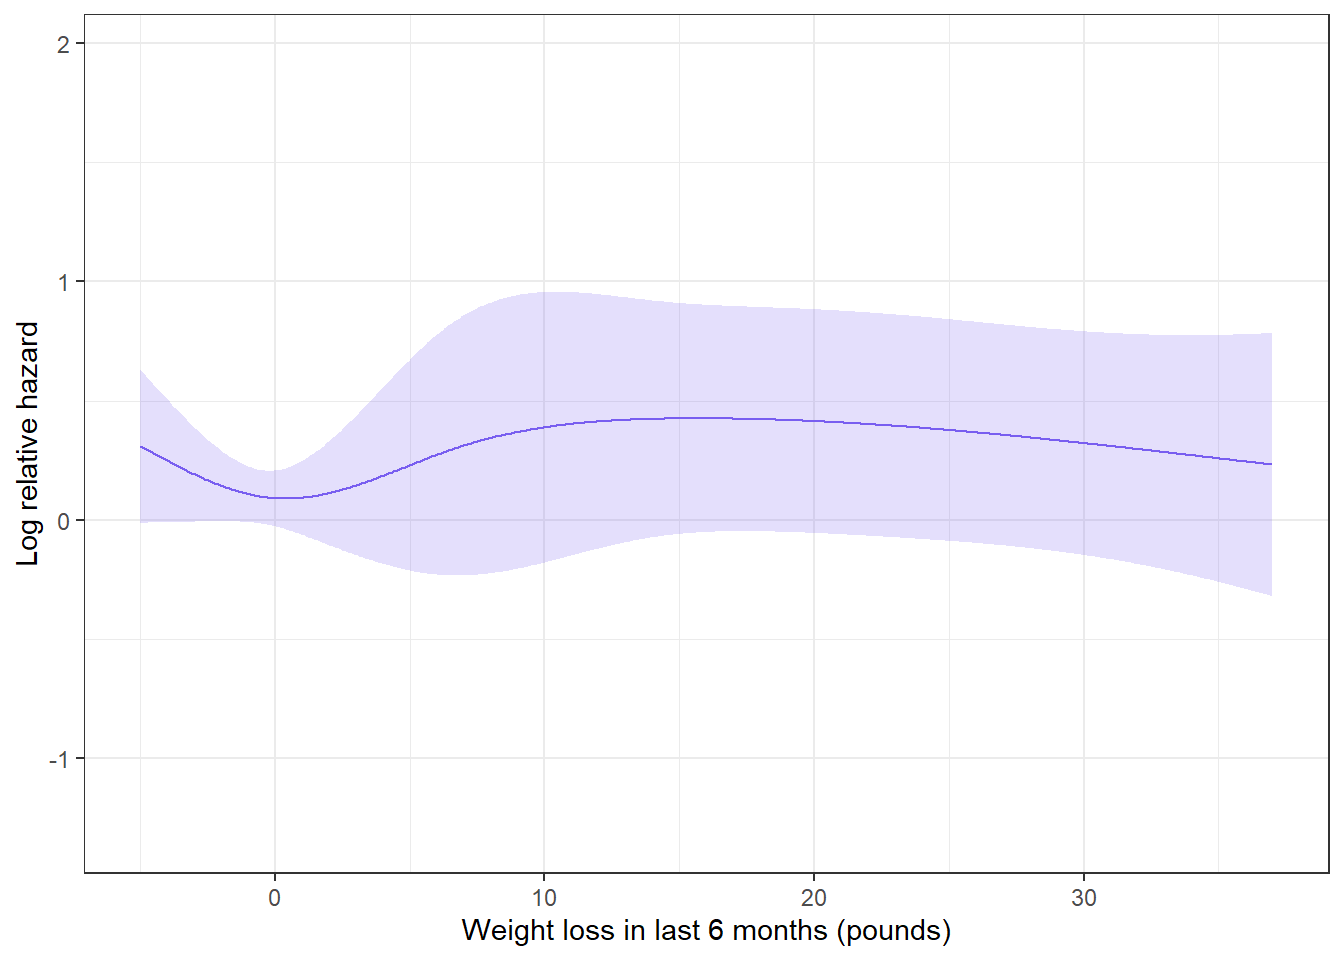
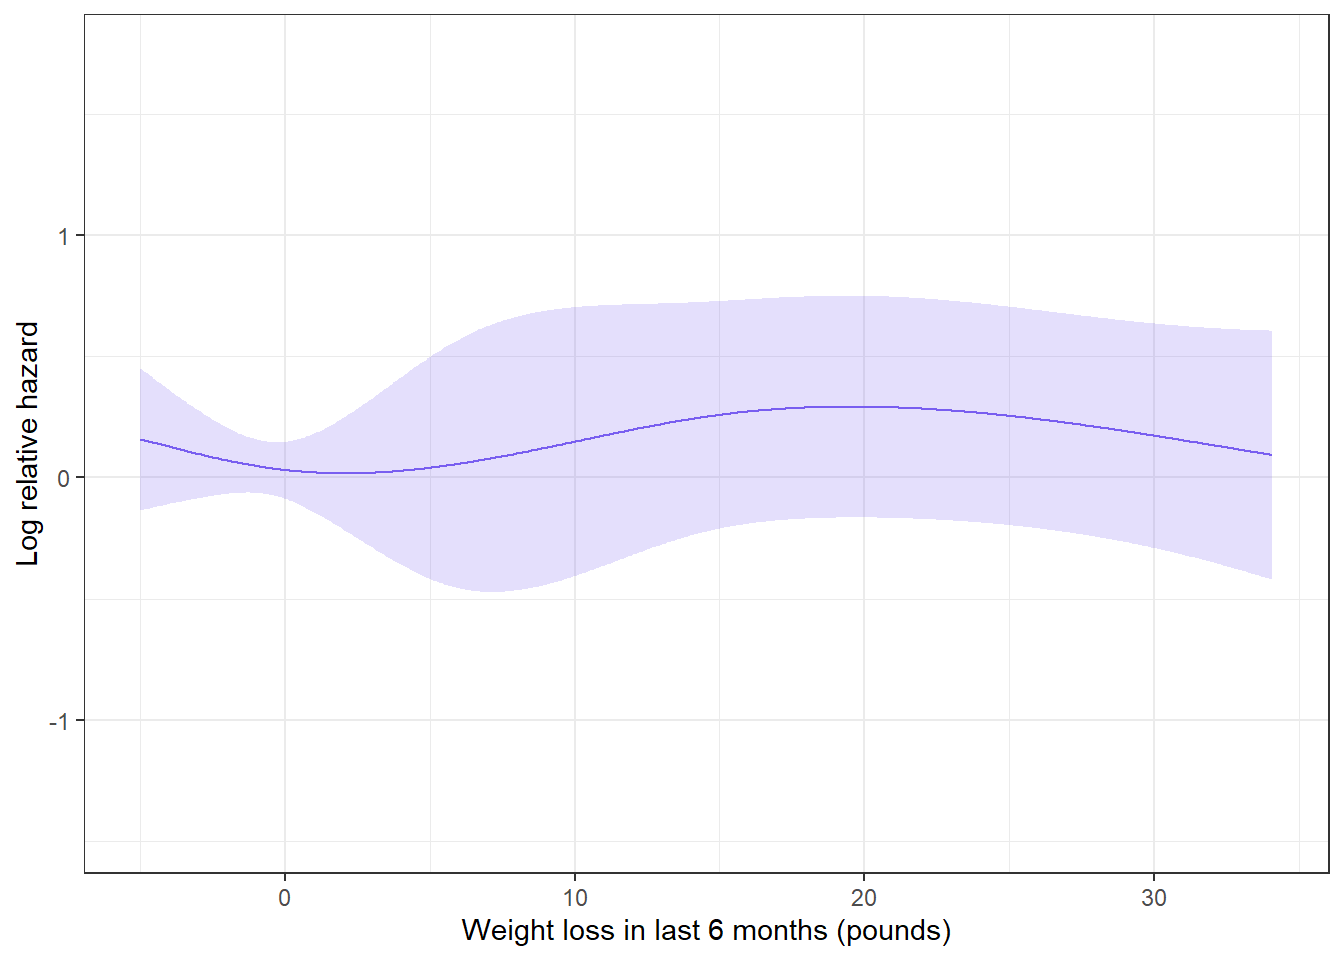
Built site for gh-pages

diff --git a/pint_prd1.html b/pint_prd1.html
@@ -144,7 +144,7 @@ window.Quarto = {
       <button type="button" class="quarto-btn-toggle btn" data-bs-toggle="collapse" role="button" data-bs-target=".quarto-sidebar-collapse-item" aria-controls="quarto-sidebar" aria-expanded="false" aria-label="Toggle sidebar navigation" onclick="if (window.quartoToggleHeadroom) { window.quartoToggleHeadroom(); }">
         <i class="bi bi-layout-text-sidebar-reverse"></i>
       </button>
-        <nav class="quarto-page-breadcrumbs" aria-label="breadcrumb"><ol class="breadcrumb"><li class="breadcrumb-item"><a href="./pint_prd1.html">PINT practical 1</a></li></ol></nav>
+        <nav class="quarto-page-breadcrumbs" aria-label="breadcrumb"><ol class="breadcrumb"><li class="breadcrumb-item"><a href="./pint_prd1.html">PINT</a></li><li class="breadcrumb-item"><a href="./pint_prd1.html">Practical 1</a></li></ol></nav>
         <a class="flex-grow-1" role="navigation" data-bs-toggle="collapse" data-bs-target=".quarto-sidebar-collapse-item" aria-controls="quarto-sidebar" aria-expanded="false" aria-label="Toggle sidebar navigation" onclick="if (window.quartoToggleHeadroom) { window.quartoToggleHeadroom(); }">      
         </a>
       <button type="button" class="btn quarto-search-button" aria-label="Search" onclick="window.quartoOpenSearch();">
@@ -164,18 +164,29 @@ window.Quarto = {
         </div>
     <div class="sidebar-menu-container"> 
     <ul class="list-unstyled mt-1">
-        <li class="sidebar-item">
+        <li class="sidebar-item sidebar-item-section">
+      <div class="sidebar-item-container"> 
+            <a class="sidebar-item-text sidebar-link text-start" data-bs-toggle="collapse" data-bs-target="#quarto-sidebar-section-1" role="navigation" aria-expanded="true">
+ <span class="menu-text">PINT</span></a>
+          <a class="sidebar-item-toggle text-start" data-bs-toggle="collapse" data-bs-target="#quarto-sidebar-section-1" role="navigation" aria-expanded="true" aria-label="Toggle section">
+            <i class="bi bi-chevron-right ms-2"></i>
+          </a> 
+      </div>
+      <ul id="quarto-sidebar-section-1" class="collapse list-unstyled sidebar-section depth1 show">  
+          <li class="sidebar-item">
   <div class="sidebar-item-container"> 
   <a href="./pint_prd1.html" class="sidebar-item-text sidebar-link active">
- <span class="menu-text">PINT practical 1</span></a>
+ <span class="menu-text">Practical 1</span></a>
   </div>
 </li>
-        <li class="sidebar-item">
+          <li class="sidebar-item">
   <div class="sidebar-item-container"> 
   <a href="./pint_prd2.html" class="sidebar-item-text sidebar-link">
- <span class="menu-text">PINT practical 2</span></a>
+ <span class="menu-text">Practical 2</span></a>
   </div>
 </li>
+      </ul>
+  </li>
     </ul>
     </div>
 </nav>
@@ -221,7 +232,7 @@ window.Quarto = {
 <!-- main -->
 <main class="content page-columns page-full" id="quarto-document-content">
 
-<header id="title-block-header" class="quarto-title-block default">
+<header id="title-block-header" class="quarto-title-block default"><nav class="quarto-page-breadcrumbs quarto-title-breadcrumbs d-none d-lg-block" aria-label="breadcrumb"><ol class="breadcrumb"><li class="breadcrumb-item"><a href="./pint_prd1.html">PINT</a></li><li class="breadcrumb-item"><a href="./pint_prd1.html">Practical 1</a></li></ol></nav>
 <div class="quarto-title">
 <h1 class="title">PINT - Prediction Practical 1</h1>
 <p class="subtitle lead">Analysis and Reporting of Prediction Modelling Studies</p>
@@ -924,17 +935,17 @@ Slope: 1.000</code></pre>
 <span id="cb20-2"><a href="#cb20-2"></a><span class="fu">validate</span>(fit_rms)</span></code><button title="Copy to Clipboard" class="code-copy-button"><i class="bi"></i></button></pre></div>
 <div class="cell-output cell-output-stdout">
 <pre><code>          index.orig training    test optimism index.corrected  n
-Dxy           0.5303   0.5358  0.5234   0.0124          0.5178 40
-R2            0.2726   0.2793  0.2656   0.0137          0.2589 40
-Intercept     0.0000   0.0000 -0.0143   0.0143         -0.0143 40
-Slope         1.0000   1.0000  0.9641   0.0359          0.9641 40
-Emax          0.0000   0.0000  0.0105   0.0105          0.0105 40
-D             0.2243   0.2307  0.2179   0.0128          0.2115 40
-U            -0.0009  -0.0009  0.0002  -0.0011          0.0002 40
-Q             0.2252   0.2316  0.2177   0.0139          0.2113 40
-B             0.1879   0.1864  0.1893  -0.0029          0.1908 40
-g             1.2470   1.2712  1.2243   0.0469          1.2001 40
-gp            0.2538   0.2566  0.2501   0.0065          0.2473 40</code></pre>
+Dxy           0.5303   0.5350  0.5255   0.0094          0.5208 40
+R2            0.2726   0.2773  0.2675   0.0098          0.2628 40
+Intercept     0.0000   0.0000 -0.0075   0.0075         -0.0075 40
+Slope         1.0000   1.0000  0.9777   0.0223          0.9777 40
+Emax          0.0000   0.0000  0.0062   0.0062          0.0062 40
+D             0.2243   0.2288  0.2196   0.0092          0.2151 40
+U            -0.0009  -0.0009  0.0000  -0.0009          0.0000 40
+Q             0.2252   0.2297  0.2196   0.0101          0.2151 40
+B             0.1879   0.1869  0.1890  -0.0020          0.1899 40
+g             1.2470   1.2664  1.2328   0.0336          1.2134 40
+gp            0.2538   0.2558  0.2512   0.0046          0.2492 40</code></pre>
 </div>
 </div>
 <p>How do we interpret this output? The <code>validate()</code> function applies resampling, which is a method to account for overfitting, with the results being printed in the ‘index.corrected’ column. However, if we are just interested in the apparent performance, we can just look at ‘index.orig’. To calculate the C-statistic, we can use <span class="math inline">\(c = \frac{Dxy}{2} + 0.5\)</span>. In our case, the C-statistic would be:</p>
@@ -958,7 +969,7 @@ gp            0.2538   0.2566  0.2501   0.0065          0.2473 40</code></pre>
 </div>
 <div class="cell-output cell-output-stdout">
 <pre><code>
-n=2159   Mean absolute error=0.006   Mean squared error=6e-05
+n=2159   Mean absolute error=0.006   Mean squared error=5e-05
 0.9 Quantile of absolute error=0.013</code></pre>
 </div>
 </div>
@@ -1141,26 +1152,32 @@ coxph(formula = Surv(time, status) ~ age + sex + ns(wt.loss,
 
   n= 228, number of events= 159 
 
-                                    coef exp(coef)  se(coef)      z Pr(&gt;|z|)   
-age                             0.017305  1.017456  0.009483  1.825   0.0680 . 
-sex                            -0.544234  0.580286  0.171439 -3.174   0.0015 **
-ns(wt.loss, knots = c(1, 12))1 -0.233497  0.791760  0.501597 -0.466   0.6416   
-ns(wt.loss, knots = c(1, 12))2 -2.749452  0.063963  1.691204 -1.626   0.1040   
-ns(wt.loss, knots = c(1, 12))3 -1.089618  0.336345  0.921016 -1.183   0.2368   
+                                     coef  exp(coef)   se(coef)      z Pr(&gt;|z|)
+age                             0.0167093  1.0168497  0.0094676  1.765  0.07758
+sex                            -0.5503945  0.5767222  0.1720588 -3.199  0.00138
+ns(wt.loss, knots = c(1, 12))1  0.0008066  1.0008069  0.4795702  0.002  0.99866
+ns(wt.loss, knots = c(1, 12))2 -1.2220258  0.2946327  1.4479702 -0.844  0.39869
+ns(wt.loss, knots = c(1, 12))3 -0.6886587  0.5022493  0.8805938 -0.782  0.43419
+                                 
+age                            . 
+sex                            **
+ns(wt.loss, knots = c(1, 12))1   
+ns(wt.loss, knots = c(1, 12))2   
+ns(wt.loss, knots = c(1, 12))3   
 ---
 Signif. codes:  0 '***' 0.001 '**' 0.01 '*' 0.05 '.' 0.1 ' ' 1
 
                                exp(coef) exp(-coef) lower .95 upper .95
-age                              1.01746     0.9828  0.998719     1.037
-sex                              0.58029     1.7233  0.414680     0.812
-ns(wt.loss, knots = c(1, 12))1   0.79176     1.2630  0.296233     2.116
-ns(wt.loss, knots = c(1, 12))2   0.06396    15.6341  0.002325     1.760
-ns(wt.loss, knots = c(1, 12))3   0.33634     2.9731  0.055311     2.045
+age                               1.0168     0.9834   0.99815     1.036
+sex                               0.5767     1.7339   0.41163     0.808
+ns(wt.loss, knots = c(1, 12))1    1.0008     0.9992   0.39097     2.562
+ns(wt.loss, knots = c(1, 12))2    0.2946     3.3941   0.01725     5.033
+ns(wt.loss, knots = c(1, 12))3    0.5022     1.9910   0.08940     2.822
 
-Concordance= 0.606  (se = 0.025 )
-Likelihood ratio test= 18.24  on 5 df,   p=0.003
-Wald test            = 17.38  on 5 df,   p=0.004
-Score (logrank) test = 17.86  on 5 df,   p=0.003</code></pre>
+Concordance= 0.608  (se = 0.025 )
+Likelihood ratio test= 16.53  on 5 df,   p=0.005
+Wald test            = 15.67  on 5 df,   p=0.008
+Score (logrank) test = 16.05  on 5 df,   p=0.007</code></pre>
 </div>
 </div>
 <p>We see that weight loss has three coefficients, one for the lowest value through 1 (1), one for 1 through 12 (2), and one for 12 through the highest value (3). Also note that we do not have an intercept: to calculate the final predicted risk, we need to use the baseline hazard instead of the intercept. However, the baseline hazard is different for each timepoint.</p>
@@ -1169,7 +1186,7 @@ Score (logrank) test = 17.86  on 5 df,   p=0.003</code></pre>
 <div class="sourceCode cell-code" id="cb38"><pre class="sourceCode numberSource r number-lines code-with-copy"><code class="sourceCode r"><span id="cb38-1"><a href="#cb38-1"></a><span class="co"># Retrieve baseline hazard at 2 years</span></span>
 <span id="cb38-2"><a href="#cb38-2"></a><span class="fu">filter</span>(<span class="fu">basehaz</span>(fit), time <span class="sc">==</span> <span class="fl">365.25</span> <span class="sc">*</span> <span class="dv">2</span>)[[<span class="st">"hazard"</span>]]</span></code><button title="Copy to Clipboard" class="code-copy-button"><i class="bi"></i></button></pre></div>
 <div class="cell-output cell-output-stdout">
-<pre><code>[1] 2.143907</code></pre>
+<pre><code>[1] 2.144991</code></pre>
 </div>
 </div>
 <p>Discrimination of this model can be calculated using Harrell’s C-statistic: * The function <code>cindex()</code> from the <code>{dynpred}</code> package (does not require model fit, but does require development formula). * The function <code>rcorr.cens()</code> from the <code>{Hmisc}</code> package (does not require model fit, but may be slow). * The function <code>cIndex()</code> from the <code>{intsurv}</code> package.</p>

diff --git a/pint_prd2.html b/pint_prd2.html
@@ -144,7 +144,7 @@ window.Quarto = {
       <button type="button" class="quarto-btn-toggle btn" data-bs-toggle="collapse" role="button" data-bs-target=".quarto-sidebar-collapse-item" aria-controls="quarto-sidebar" aria-expanded="false" aria-label="Toggle sidebar navigation" onclick="if (window.quartoToggleHeadroom) { window.quartoToggleHeadroom(); }">
         <i class="bi bi-layout-text-sidebar-reverse"></i>
       </button>
-        <nav class="quarto-page-breadcrumbs" aria-label="breadcrumb"><ol class="breadcrumb"><li class="breadcrumb-item"><a href="./pint_prd2.html">PINT practical 2</a></li></ol></nav>
+        <nav class="quarto-page-breadcrumbs" aria-label="breadcrumb"><ol class="breadcrumb"><li class="breadcrumb-item"><a href="./pint_prd1.html">PINT</a></li><li class="breadcrumb-item"><a href="./pint_prd2.html">Practical 2</a></li></ol></nav>
         <a class="flex-grow-1" role="navigation" data-bs-toggle="collapse" data-bs-target=".quarto-sidebar-collapse-item" aria-controls="quarto-sidebar" aria-expanded="false" aria-label="Toggle sidebar navigation" onclick="if (window.quartoToggleHeadroom) { window.quartoToggleHeadroom(); }">      
         </a>
       <button type="button" class="btn quarto-search-button" aria-label="Search" onclick="window.quartoOpenSearch();">
@@ -164,18 +164,29 @@ window.Quarto = {
         </div>
     <div class="sidebar-menu-container"> 
     <ul class="list-unstyled mt-1">
-        <li class="sidebar-item">
+        <li class="sidebar-item sidebar-item-section">
+      <div class="sidebar-item-container"> 
+            <a class="sidebar-item-text sidebar-link text-start" data-bs-toggle="collapse" data-bs-target="#quarto-sidebar-section-1" role="navigation" aria-expanded="true">
+ <span class="menu-text">PINT</span></a>
+          <a class="sidebar-item-toggle text-start" data-bs-toggle="collapse" data-bs-target="#quarto-sidebar-section-1" role="navigation" aria-expanded="true" aria-label="Toggle section">
+            <i class="bi bi-chevron-right ms-2"></i>
+          </a> 
+      </div>
+      <ul id="quarto-sidebar-section-1" class="collapse list-unstyled sidebar-section depth1 show">  
+          <li class="sidebar-item">
   <div class="sidebar-item-container"> 
   <a href="./pint_prd1.html" class="sidebar-item-text sidebar-link">
- <span class="menu-text">PINT practical 1</span></a>
+ <span class="menu-text">Practical 1</span></a>
   </div>
 </li>
-        <li class="sidebar-item">
+          <li class="sidebar-item">
   <div class="sidebar-item-container"> 
   <a href="./pint_prd2.html" class="sidebar-item-text sidebar-link active">
- <span class="menu-text">PINT practical 2</span></a>
+ <span class="menu-text">Practical 2</span></a>
   </div>
 </li>
+      </ul>
+  </li>
     </ul>
     </div>
 </nav>
@@ -220,7 +231,7 @@ window.Quarto = {
 <!-- main -->
 <main class="content page-columns page-full" id="quarto-document-content">
 
-<header id="title-block-header" class="quarto-title-block default">
+<header id="title-block-header" class="quarto-title-block default"><nav class="quarto-page-breadcrumbs quarto-title-breadcrumbs d-none d-lg-block" aria-label="breadcrumb"><ol class="breadcrumb"><li class="breadcrumb-item"><a href="./pint_prd1.html">PINT</a></li><li class="breadcrumb-item"><a href="./pint_prd2.html">Practical 2</a></li></ol></nav>
 <div class="quarto-title">
 <h1 class="title">PINT - Prediction Practical 2</h1>
 <p class="subtitle lead">Shrinkage Methods for Prediction Models</p>
@@ -743,7 +754,7 @@ causeRoad traffic accident  0.266325399  0.26484164</code></pre>
 </dl>
 </div>
 <div class="cell-output cell-output-stdout">
-<pre><code>[1] 0.001036979</code></pre>
+<pre><code>[1] 0.008028954</code></pre>
 </div>
 </div>
 <p>Using our newly estimated <span class="math inline">\(\lambda\)</span>, we can fit a LASSO regression:</p>
@@ -760,15 +771,15 @@ causeRoad traffic accident  0.266325399  0.26484164</code></pre>
 <span id="cb19-10"><a href="#cb19-10"></a>           <span class="at">lasso =</span> <span class="fu">coef</span>(fit_lasso)[<span class="dv">1</span><span class="sc">:</span><span class="dv">9</span>])</span></code><button title="Copy to Clipboard" class="code-copy-button"><i class="bi"></i></button></pre></div>
 <div class="cell-output cell-output-stdout">
 <pre><code>                               standard        lasso
-(Intercept)                -1.382712131 -1.336717409
-age                         0.037291271  0.036740032
-d.sysbpt                   -0.008378515 -0.008154423
-pupil.ino reactive pupils   1.836702419  1.820386273
-pupil.ione reactive         0.834370082  0.817360258
-causedomestic/fall          0.296242006  0.235966872
-causeMotorbike             -0.019630030 -0.057387221
-causeother                  0.483428921  0.421159619
-causeRoad traffic accident  0.266325399  0.208398364</code></pre>
+(Intercept)                -1.382712131 -1.230742024
+age                         0.037291271  0.033588830
+d.sysbpt                   -0.008378515 -0.006431202
+pupil.ino reactive pupils   1.836702419  1.711308392
+pupil.ione reactive         0.834370082  0.700955917
+causedomestic/fall          0.296242006  0.000000000
+causeMotorbike             -0.019630030 -0.156220959
+causeother                  0.483428921  0.160546366
+causeRoad traffic accident  0.266325399  0.000000000</code></pre>
 </div>
 </div>
 <p>From this output, we can see that two levels of cause were set to 0, effectively removing those variables from the final prediction model.</p>
@@ -796,15 +807,15 @@ causeRoad traffic accident  0.266325399  0.208398364</code></pre>
 <span id="cb21-10"><a href="#cb21-10"></a>           <span class="st">`</span><span class="at">elastic net</span><span class="st">`</span> <span class="ot">=</span> <span class="fu">coef</span>(fit_elnet)[<span class="dv">1</span><span class="sc">:</span><span class="dv">9</span>])</span></code><button title="Copy to Clipboard" class="code-copy-button"><i class="bi"></i></button></pre></div>
 <div class="cell-output cell-output-stdout">
 <pre><code>                               standard  elastic.net
-(Intercept)                -1.382712131 -1.350056045
-age                         0.037291271  0.036877098
-d.sysbpt                   -0.008378515 -0.008255353
-pupil.ino reactive pupils   1.836702419  1.822878559
-pupil.ione reactive         0.834370082  0.822703761
-causedomestic/fall          0.296242006  0.261479891
-causeMotorbike             -0.019630030 -0.043441429
-causeother                  0.483428921  0.446474961
-causeRoad traffic accident  0.266325399  0.231953426</code></pre>
+(Intercept)                -1.382712131 -1.181518125
+age                         0.037291271  0.034301194
+d.sysbpt                   -0.008378515 -0.007416112
+pupil.ino reactive pupils   1.836702419  1.734493173
+pupil.ione reactive         0.834370082  0.746802928
+causedomestic/fall          0.296242006  0.073615051
+causeMotorbike             -0.019630030 -0.159495702
+causeother                  0.483428921  0.244266906
+causeRoad traffic accident  0.266325399  0.044820028</code></pre>
 </div>
 </div>
 <div class="callout callout-style-default callout-note callout-titled">
@@ -977,13 +988,13 @@ Note
 </tr>
 <tr class="odd">
 <td style="text-align: left;">lasso</td>
-<td style="text-align: right;">0.7383039</td>
-<td style="text-align: right;">0.7014811</td>
+<td style="text-align: right;">0.7365717</td>
+<td style="text-align: right;">0.7023589</td>
 </tr>
 <tr class="even">
 <td style="text-align: left;">elastic net</td>
-<td style="text-align: right;">0.7384998</td>
-<td style="text-align: right;">0.7014115</td>
+<td style="text-align: right;">0.7370890</td>
+<td style="text-align: right;">0.7021569</td>
 </tr>
 </tbody>
 </table>
@@ -1043,17 +1054,17 @@ Note
 </tr>
 <tr class="odd">
 <td style="text-align: left;">lasso</td>
-<td style="text-align: right;">0.007</td>
-<td style="text-align: right;">0.165</td>
-<td style="text-align: right;">1.015</td>
-<td style="text-align: right;">0.891</td>
+<td style="text-align: right;">0.049</td>
+<td style="text-align: right;">0.229</td>
+<td style="text-align: right;">1.103</td>
+<td style="text-align: right;">0.993</td>
 </tr>
 <tr class="even">
 <td style="text-align: left;">elastic net</td>
-<td style="text-align: right;">0.005</td>
-<td style="text-align: right;">0.161</td>
-<td style="text-align: right;">1.011</td>
-<td style="text-align: right;">0.886</td>
+<td style="text-align: right;">0.037</td>
+<td style="text-align: right;">0.207</td>
+<td style="text-align: right;">1.078</td>
+<td style="text-align: right;">0.959</td>
 </tr>
 </tbody>
 </table>
